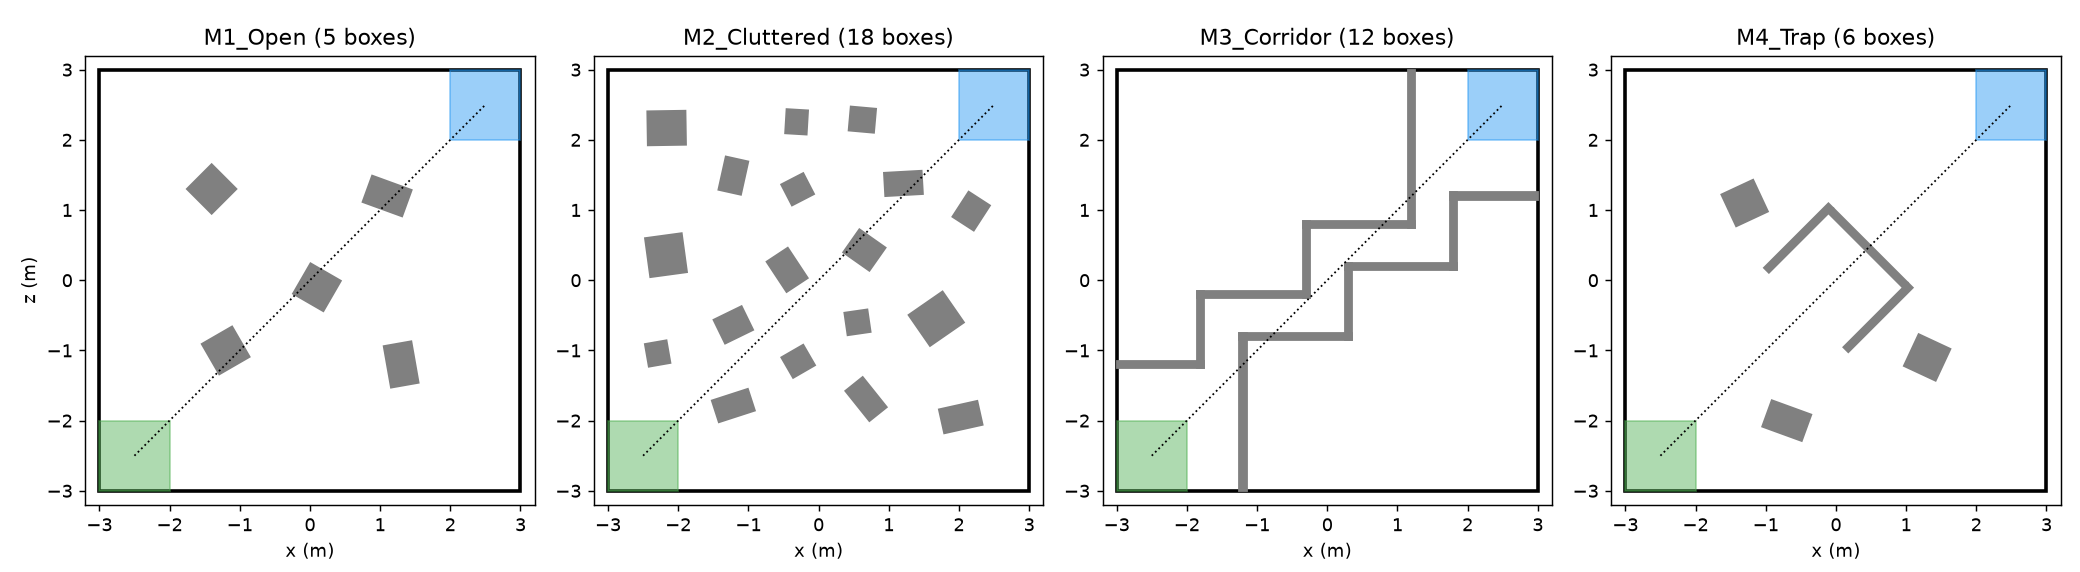
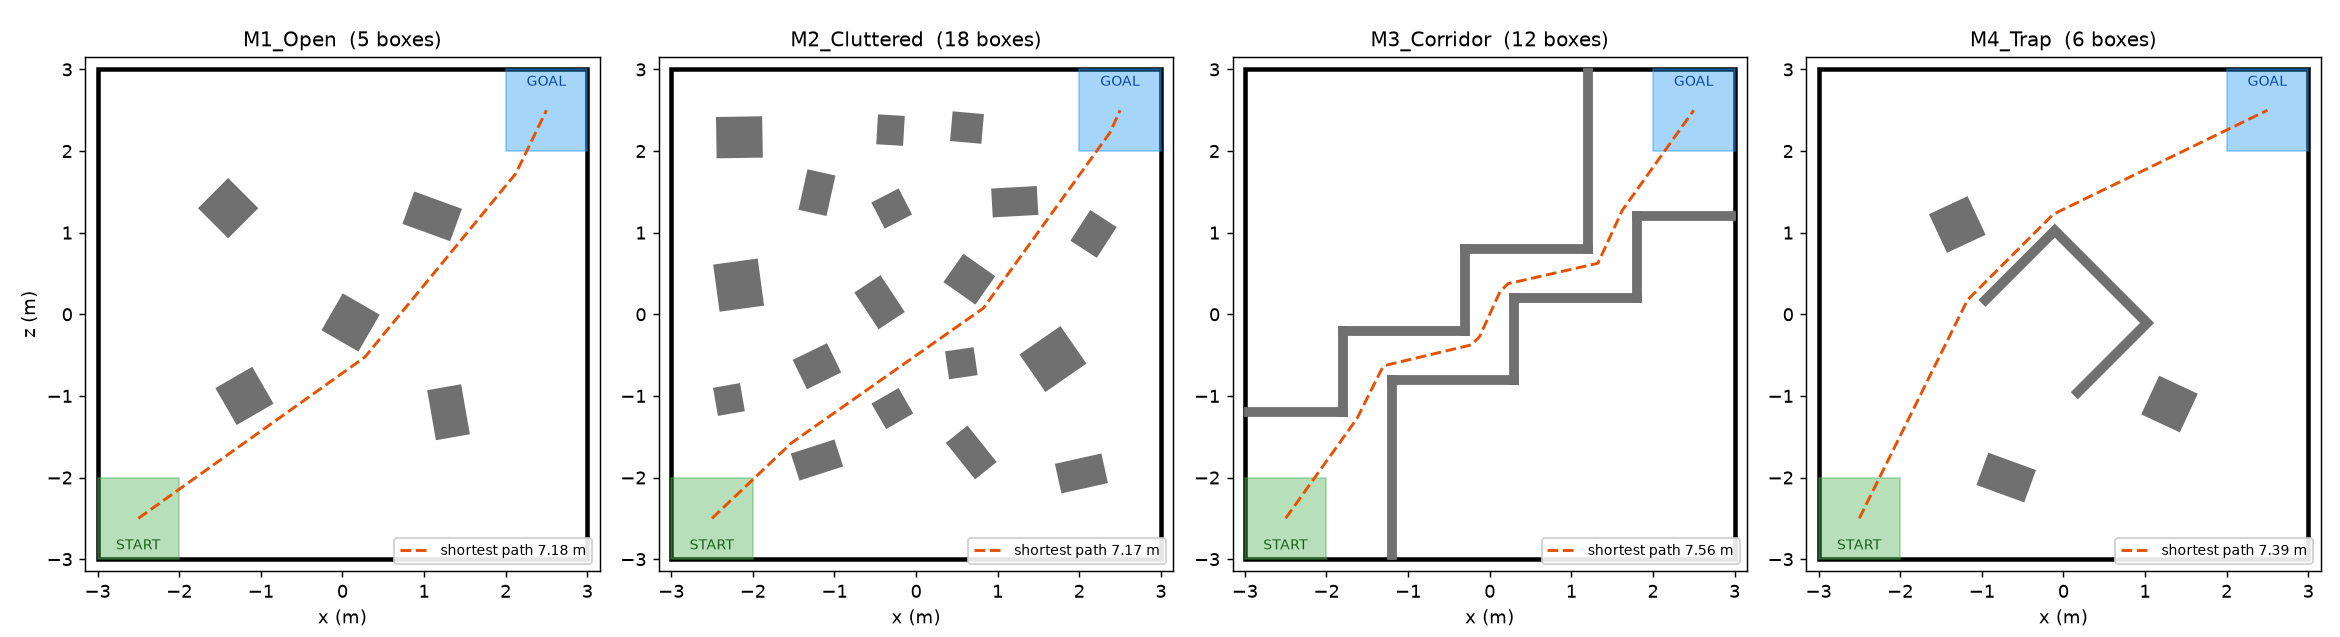
Phase 3 step 2: TrialSpawner, 30 start poses, Figure 2 map pictures
- TrialSpawner: places the rover from a trial seed: random point inside the start
  zone (whole rover inside: +-0.375 m about the zone centre) and a random heading
  within +-45 deg of the goal direction; same seed = same pose
- Trial seed goes through an integer hash before System.Random: plain consecutive
  seeds gave a perfect lattice (constant step per seed), not random poses
- SimConfig: startHeadingRangeDeg, firstTrialSeed (1), trialCount (30)
- Rover > Export Start Poses writes results/start_poses.csv (seeds 1-30)
- docs/figures/maps/: 1920x1920 top-down Unity renders of the 4 test maps (Figure 2)
- make_maps.py: shortest-path overview only; MapLoader keeps the zone-moving code
- CLAUDE.md fixed parameters: trial seeds, position range, heading range
- PROGRESS.md: Phase 3 ticked, map and start-pose decisions for the Methods
- Arena scene: TrialSpawner added (diff also holds recomputed HUD layout sizes)

diff --git a/analysis/make_maps.py b/analysis/make_maps.py
@@ -104,7 +104,8 @@ def path_exists(boxes, clearance=ROVER_R, cell=0.05):
 def shortest_path(boxes, clearance=0.10, cell=0.05):
     """Shortest collision-free path from the start-zone centre to the goal-zone centre.
     The rover is a point that must stay at least `clearance` away from every box and every arena wall. Dijkstra on a grid
-    (16 neighbours), then straightened by line-of-sight shortcuts. Returns (grid length, straightened length) in metres."""
+    (16 neighbours), then straightened by line-of-sight shortcuts. Returns (grid length, straightened length in metres,
+    the straightened path as a list of (x, z) points)."""
     import heapq
     import numpy as np
     n = round(2 * HALF / cell)
@@ -172,7 +173,7 @@ def shortest_path(boxes, clearance=0.10, cell=0.05):
             j -= 1
         out.append(pts[j])
         i = j
-    return grid_len, sum(math.hypot(b[0] - a[0], b[1] - a[1]) for a, b in zip(out, out[1:]))
+    return grid_len, sum(math.hypot(b[0] - a[0], b[1] - a[1]) for a, b in zip(out, out[1:])), out
 
 
 def stats(boxes):
@@ -405,30 +406,40 @@ def write_asset(name, boxes):
     (MAP_DIR / (name + ".asset")).write_text("\n".join(lines) + "\n", encoding="utf-8", newline="\n")
 
 
-def draw(maps):
+def draw_map(ax, name, boxes, path, length):
+    from matplotlib.patches import Polygon, Rectangle
+    ax.add_patch(Rectangle((-HALF, -HALF), 2 * HALF, 2 * HALF, fill=False, lw=2.5, color="black"))
+    ax.add_patch(Rectangle((START[0] - .5, START[1] - .5), 1, 1, color="#4caf50", alpha=.40))
+    ax.add_patch(Rectangle((GOAL[0] - .5, GOAL[1] - .5), 1, 1, color="#2196f3", alpha=.40))
+    for b in boxes:
+        ax.add_patch(Polygon(corners(b), color="#707070"))
+    ax.plot([p[0] for p in path], [p[1] for p in path], ls="--", lw=1.6, color="#e65100", label="shortest path %.2f m" % length)
+    ax.text(START[0], START[1] - .38, "START", ha="center", fontsize=8, color="#1b5e20")
+    ax.text(GOAL[0], GOAL[1] + .30, "GOAL", ha="center", fontsize=8, color="#0d47a1")
+    ax.set_xlim(-HALF - .15, HALF + .15)
+    ax.set_ylim(-HALF - .15, HALF + .15)
+    ax.set_aspect("equal")
+    ax.set_title("%s  (%d boxes)" % (name, len(boxes)), fontsize=11)
+    ax.set_xlabel("x (m)")
+    ax.legend(loc="lower right", fontsize=8, framealpha=.9)
+
+
+def draw(maps, paths, lengths):
+    """Quick schematic of the four maps with their shortest paths (docs/figures/maps_overview.png). The paper's Figure 2
+    pictures are rendered by Unity instead (docs/figures/maps/)."""
     import matplotlib
     matplotlib.use("Agg")
     import matplotlib.pyplot as plt
-    from matplotlib.patches import Polygon, Rectangle
-    fig, axes = plt.subplots(1, 4, figsize=(16, 4.4))
+    out_dir = ROOT / "docs" / "figures"
+    out_dir.mkdir(parents=True, exist_ok=True)
+    fig, axes = plt.subplots(1, 4, figsize=(18, 4.9))
     for ax, (name, boxes) in zip(axes, maps.items()):
-        ax.add_patch(Rectangle((-HALF, -HALF), 2 * HALF, 2 * HALF, fill=False, lw=2, color="black"))
-        ax.add_patch(Rectangle((START[0] - .5, START[1] - .5), 1, 1, color="#4caf50", alpha=.45))
-        ax.add_patch(Rectangle((GOAL[0] - .5, GOAL[1] - .5), 1, 1, color="#2196f3", alpha=.45))
-        for b in boxes:
-            ax.add_patch(Polygon(corners(b), color="#808080"))
-        ax.plot([START[0], GOAL[0]], [START[1], GOAL[1]], ls=":", lw=1, color="black")
-        ax.set_xlim(-HALF - .2, HALF + .2)
-        ax.set_ylim(-HALF - .2, HALF + .2)
-        ax.set_aspect("equal")
-        ax.set_title("%s (%d boxes)" % (name, len(boxes)))
-        ax.set_xlabel("x (m)")
+        draw_map(ax, name, boxes, paths[name], lengths[name])
     axes[0].set_ylabel("z (m)")
     fig.tight_layout()
-    out = ROOT / "docs" / "figures" / "maps_overview.png"
-    out.parent.mkdir(parents=True, exist_ok=True)
-    fig.savefig(out, dpi=130)
-    print("preview:", out)
+    fig.savefig(out_dir / "maps_overview.png", dpi=130)
+    plt.close(fig)
+    print("preview written to", out_dir / "maps_overview.png")
 
 
 MAX_PATH = 8.0        # m: a controller at half speed (0.15 m/s) must still be able to finish within 60 s
@@ -440,18 +451,18 @@ def path_table(maps):
     print()
     print("Shortest collision-free path, start-zone centre -> goal-zone centre (0.10 m clearance)")
     print("%-14s %9s %9s %7s %10s %10s" % ("map", "grid (m)", "short (m)", "x line", "t @0.30", "t @0.15"))
-    result = {}
+    result, paths = {}, {}
     for name, boxes in maps.items():
-        grid, short = shortest_path(boxes)
+        grid, short, paths[name] = shortest_path(boxes)
         result[name] = short
         print("%-14s %9.2f %9.2f %7.2f %8.0f s %8.0f s" % (name, grid, short, short / straight, short / 0.30, short / 0.15))
     print("straight line start-goal = %.2f m;  limit = %.1f m" % (straight, MAX_PATH))
-    return result
+    return result, paths
 
 
 if __name__ == "__main__":
     all_maps = verify_all()
-    lengths = path_table(all_maps)
+    lengths, paths = path_table(all_maps)
     too_long = [k for k, v in lengths.items() if v > MAX_PATH]
     if too_long:
         sys.exit("path longer than %.1f m: %s" % (MAX_PATH, ", ".join(too_long)))
@@ -459,4 +470,4 @@ if __name__ == "__main__":
     for map_name, map_boxes in all_maps.items():
         write_asset(map_name, map_boxes)
         print("wrote", MAP_DIR / (map_name + ".asset"))
-    draw(all_maps)
+    draw(all_maps, paths, lengths)

diff --git a/Assets/Scripts/Experiment/TrialSpawner.cs b/Assets/Scripts/Experiment/TrialSpawner.cs
@@ -1,0 +1,87 @@
+// TrialSpawner: puts the rover on its start pose for one trial. Given a trial seed it picks a random point inside the start
+// zone (the whole rover stays inside the zone) and a random heading between -45 and +45 degrees from the direction of the
+// goal, using a System.Random seeded from the trial seed (never UnityEngine.Random). The same seed always gives the same pose, whatever the
+// controller, noise level or map. Sign convention: positive goal angle = the goal is to the LEFT of the rover's heading.
+using UnityEngine;
+
+public struct StartPose
+{
+    public Vector2 position;       // rover centre on the floor (x, z), metres
+    public float yawDeg;           // Unity rotation about the vertical axis (0 = facing +z / north, positive turns RIGHT)
+    public float goalAngleDeg;     // angle to the goal as the rover sees it: positive = goal to the LEFT
+    /// <summary>Heading in the map frame (x east, z north): degrees counter-clockwise from east, 0..360. = 90 - yaw.</summary>
+    public float HeadingDeg => Mathf.Repeat(90f - yawDeg, 360f);
+}
+
+public class TrialSpawner : MonoBehaviour
+{
+    public SimConfig config;
+    public RoverDrive rover;
+    public Transform startZone;      // found by the name "StartZone" if left empty (MapLoader moves it to the map's start)
+    public Transform goalZone;       // found by the name "GoalZone" if left empty
+
+    /// <summary>Place the rover for this trial seed, stop it and restart its run records. Returns the pose used.</summary>
+    public StartPose Spawn(int trialSeed)
+    {
+        Resolve(ref startZone, "StartZone");
+        Resolve(ref goalZone, "GoalZone");
+        var pose = ComputePose(trialSeed,
+            new Vector2(startZone.position.x, startZone.position.z), new Vector2(goalZone.position.x, goalZone.position.z), config);
+
+        var rb = rover.GetComponent<Rigidbody>();
+        var position = new Vector3(pose.position.x, rover.transform.position.y, pose.position.y);   // keep the rover's height
+        var rotation = Quaternion.Euler(0f, pose.yawDeg, 0f);
+        rb.linearVelocity = Vector3.zero;
+        rb.angularVelocity = Vector3.zero;
+        rb.position = position;
+        rb.rotation = rotation;
+        rover.transform.SetPositionAndRotation(position, rotation);
+        Physics.SyncTransforms();
+
+        var status = rover.GetComponent<RoverStatus>();
+        if (status != null) status.ResetStatus();
+        return pose;
+    }
+
+    /// <summary>The pose for a trial seed (no objects are moved). Same seed = same pose.</summary>
+    public static StartPose ComputePose(int trialSeed, Vector2 startCentre, Vector2 goalCentre, SimConfig config)
+    {
+        var rng = new System.Random(MixSeed(trialSeed));
+        double ux = rng.NextDouble(), uz = rng.NextDouble(), ua = rng.NextDouble();   // always three draws, in this order
+
+        // Any point of the zone where the whole rover (even turned diagonally) still fits inside it.
+        float halfDiagonal = 0.5f * Mathf.Sqrt(config.roverLength * config.roverLength + config.roverWidth * config.roverWidth);
+        float range = config.zoneSize * 0.5f - halfDiagonal;
+        var position = new Vector2(startCentre.x + (float)(2 * ux - 1) * range, startCentre.y + (float)(2 * uz - 1) * range);
+        float goalAngle = (float)(2 * ua - 1) * config.startHeadingRangeDeg;
+
+        // yaw that faces the goal, then turned RIGHT by the goal angle (turning right makes the goal appear on the left)
+        Vector2 toGoal = goalCentre - position;
+        float yawToGoal = Mathf.Atan2(toGoal.x, toGoal.y) * Mathf.Rad2Deg;
+        float yaw = Mathf.Repeat(yawToGoal + goalAngle, 360f);
+
+        return new StartPose { position = position, yawDeg = yaw, goalAngleDeg = goalAngle };
+    }
+
+    // System.Random seeded with 1, 2, 3, ... gives a perfectly regular lattice (each draw grows by a constant step from one
+    // seed to the next, so the poses would be evenly spaced, not random). Passing the trial seed through this nonlinear
+    // integer hash (murmur3 finalizer) first removes that pattern. It is a fixed function: same trial seed = same pose.
+    static int MixSeed(int trialSeed)
+    {
+        unchecked
+        {
+            uint h = (uint)trialSeed;
+            h ^= h >> 16; h *= 0x85ebca6bu;
+            h ^= h >> 13; h *= 0xc2b2ae35u;
+            h ^= h >> 16;
+            return (int)h;
+        }
+    }
+
+    static void Resolve(ref Transform zone, string zoneName)
+    {
+        if (zone != null) return;
+        var found = GameObject.Find(zoneName);
+        if (found != null) zone = found.transform;
+    }
+}

diff --git a/Assets/Scripts/Experiment/Editor/MapWindow.cs b/Assets/Scripts/Experiment/Editor/MapWindow.cs
@@ -61,6 +61,30 @@ public class MapWindow : EditorWindow
         Debug.Log("Practice map from seed " + practiceSeed + " loaded.");
     }
 
+    // Writes results/start_poses.csv: the start pose of every trial seed (firstTrialSeed .. firstTrialSeed+trialCount-1).
+    // heading_deg: rover heading in the map frame, counter-clockwise from east (+x), 0..360 (Unity yaw = 90 - heading).
+    // goal_angle_deg: angle to the goal as the rover sees it, positive = goal to the LEFT.
+    [MenuItem("Rover/Export Start Poses (CSV)")]
+    static void ExportStartPoses()
+    {
+        var config = AssetDatabase.LoadAssetAtPath<SimConfig>("Assets/SimConfig.asset");
+        var map = AssetDatabase.LoadAssetAtPath<MapDefinition>("Assets/Maps/M1_Open.asset");   // all maps share the zone centres
+        if (config == null || map == null) { Debug.LogError("Export Start Poses: SimConfig or map not found"); return; }
+
+        var inv = System.Globalization.CultureInfo.InvariantCulture;
+        var csv = new System.Text.StringBuilder("seed,x,z,heading_deg,goal_angle_deg\n");
+        for (int seed = config.firstTrialSeed; seed < config.firstTrialSeed + config.trialCount; seed++)
+        {
+            StartPose p = TrialSpawner.ComputePose(seed, map.startZoneCentre, map.goalZoneCentre, config);
+            csv.Append(seed).Append(',').Append(p.position.x.ToString("0.0000", inv)).Append(',').Append(p.position.y.ToString("0.0000", inv))
+               .Append(',').Append(p.HeadingDeg.ToString("0.00", inv)).Append(',').Append(p.goalAngleDeg.ToString("0.00", inv)).Append('\n');
+        }
+        string full = System.IO.Path.GetFullPath(System.IO.Path.Combine(Application.dataPath, "..", "results", "start_poses.csv"));
+        System.IO.Directory.CreateDirectory(System.IO.Path.GetDirectoryName(full));
+        System.IO.File.WriteAllText(full, csv.ToString());
+        Debug.Log("Saved " + full);
+    }
+
     static void MarkDirty(MapLoader loader)
     {
         if (!Application.isPlaying) EditorSceneManager.MarkSceneDirty(loader.gameObject.scene);

diff --git a/Assets/Scripts/Experiment/MapLoader.cs b/Assets/Scripts/Experiment/MapLoader.cs
@@ -77,13 +77,16 @@ public class MapLoader : MonoBehaviour
         }
     }
 
+    static void Resolve(ref Transform zone, string zoneName)
+    {
+        if (zone != null) return;
+        var found = GameObject.Find(zoneName);
+        if (found != null) zone = found.transform;
+    }
+
     void PlaceZone(ref Transform zone, string zoneName, Vector2 centre)
     {
-        if (zone == null)
-        {
-            var found = GameObject.Find(zoneName);
-            if (found != null) zone = found.transform;
-        }
+        Resolve(ref zone, zoneName);
         if (zone == null) { Debug.LogWarning("MapLoader: no object named " + zoneName + " found", this); return; }
         Vector3 p = zone.position;
         zone.position = new Vector3(centre.x, p.y, centre.y);

diff --git a/Assets/Scripts/Experiment/SimConfig.cs b/Assets/Scripts/Experiment/SimConfig.cs
@@ -41,6 +41,12 @@ public class SimConfig : ScriptableObject
     public float controllerInterval = 0.05f; // controllers decide at 20 Hz
     public float physicsTimestep = 0.02f;    // Unity fixed timestep
 
+    [Header("Trial start pose")]
+    // TrialSpawner: random point inside the start zone, random goal angle within +-this (positive = goal to the LEFT).
+    public float startHeadingRangeDeg = 45f;
+    public int firstTrialSeed = 1;               // the study uses trial seeds 1..30
+    public int trialCount = 30;
+
     [Header("Visuals")]
     // true = show the detailed Perseverance model (demos, screenshots); false = plain box rover.
     // Visual only: the invisible BoxCollider is always the real body. The ExperimentRunner must set this to FALSE.

diff --git a/docs/PROGRESS.md b/docs/PROGRESS.md
@@ -5,7 +5,7 @@ Checklist of project phases. Update at the end of each phase.
 - [x] Phase 0 - Setup check and project brief (Unity project, CLAUDE.md, git, folders, SimConfig, Python 3.12 venv)
 - [x] Phase 1 - Arena and rover
 - [x] Phase 2 - Ultrasonic sensor model and accuracy test (UltrasonicSensor, SensorRig, SensorTest scene, results/sensor_validation.csv)
-- [ ] Phase 3 - Four test maps and repeatable starts
+- [x] Phase 3 - Four test maps and repeatable starts (MapDefinition, MapLoader, 4 maps, PracticeMapGenerator, TrialSpawner, results/start_poses.csv, Figure 2 pictures)
 - [ ] Phase 4 - Controller plug and rule-based baseline
 - [ ] Phase 5 - Bug2 controller
 - [ ] Phase 6 - LLM-written controllers (30)
@@ -26,8 +26,42 @@ Checklist of project phases. Update at the end of each phase.
 - Validation (seed 12345, 100 readings per point): mean matches the true distance and sd matches noise x distance
   (sd/expected averages 0.995); 2.00% dropouts on real echoes.
 
+## Map decisions (for the paper's Methods)
+
+- Maps are `MapDefinition` assets in `Assets/Maps`, generated and checked by `analysis/make_maps.py` (run it again to
+  rebuild them and the pictures in `docs/figures/`). Coordinates: x = east, z = north, arena centre (0,0); box rotation
+  positive = counter-clockwise from above (= LEFT). Start zone centre (-2.5,-2.5), goal zone centre (2.5,2.5) on all maps.
+- M1_Open: 5 boxes (0.4-0.6 m), every gap at least 0.98 m. M2_Cluttered: 18 boxes (0.3-0.6 m), every gap (box-box,
+  box-wall, box-zone) at least 0.52 m, random placement with a fixed seed. M3_Corridor: 12 thin walls (0.1 m) forming a
+  right-angle staircase corridor 0.5 m wide and 5.5 m long between two sealed 1.75 m x 1.75 m corner rooms (the corridor is
+  the only way through). M4_Trap: U-shaped dead end, 1.5 m wide x 1.2 m deep CLEAR inside (walls 0.1 m), centred on the
+  start-goal line with the opening towards the start, plus 3 boxes.
+- Shortest collision-free path start centre -> goal centre (0.10 m clearance, grid + straightening): M1 7.18 m,
+  M2 7.17 m, M3 7.56 m, M4 7.39 m (straight line 7.07 m). All under 8 m, so a controller at half speed (0.15 m/s) can
+  still finish within 60 s (about 50 s).
+- Repeatable starts (`TrialSpawner`): trial seeds 1-30. The start pose depends ONLY on the trial seed, never on the
+  controller, noise level or map. Position: uniform in x and z within +-0.375 m of the start-zone centre, i.e. x, z in
+  [-2.875, -2.125] m (zone half-width 0.5 m minus the rover's half-diagonal 0.125 m, so the whole rover is inside the zone).
+  Heading: the rover faces the goal, turned by a uniform goal angle in [-45, +45] deg (positive = goal to the left;
+  SimConfig startHeadingRangeDeg). Random numbers: `System.Random` seeded with an integer HASH of the trial seed. Plain
+  `System.Random(seed)` with seeds 1, 2, 3, ... was tested and gives a perfect lattice (every draw grows by a constant step
+  per seed, so poses are evenly spaced, not random; chi-square 24 against about 124 for random data); with the hash the
+  steps are irregular and chi-square is 129. Checked on 1000 seeds: repeatable, rover always fully inside the zone, goal angle
+  sign correct; on 4 maps x 200 seeds the rover never touched a wall or obstacle at the start.
+  `TrialSpawner.Spawn(seed)` places and stops the rover and restarts its records.
+- `results/start_poses.csv` (menu Rover > Export Start Poses): columns seed, x, z, heading_deg, goal_angle_deg for seeds
+  1-30. heading_deg = rover heading in the map frame, counter-clockwise from east (+x), 0-360 (Unity yaw = 90 - heading);
+  goal_angle_deg = angle to the goal as the rover sees it, positive = goal to the left.
+- Figure 2 pictures: `docs/figures/maps/M1_Open.png` ... `M4_Trap.png`, 1920 x 1920 px, rendered by Unity from the arena's
+  top-down orthographic camera (north up, x to the right), rover and HUD hidden, white background outside the arena.
+  Orange = arena walls, grey = obstacles, green = start zone, blue = goal zone.
+- The practice-map generator (`PracticeMapGenerator`, 5-15 boxes, sometimes a U-shape, free path guaranteed) is only for
+  showing chatbots an example in Phase 6; it is not one of the test maps.
+
 ## Notes for later phases
 
+- Phase 7: for each trial seed 1-30 call `TrialSpawner.Spawn(seed)` (after `MapLoader.Load(map)`) so every controller starts
+  from the same pose.
 - Phase 7: the ExperimentRunner MUST switch all visual-only extras OFF for all 15,360 runs: the Perseverance model,
   the follow/chase cameras (C key), the path trail and the HUD. One call does it: make a runtime copy
   (`var cfg = Object.Instantiate(config); cfg.SetExperimentMode();`), give that copy to every rover

diff --git a/CLAUDE.md b/CLAUDE.md
@@ -18,6 +18,13 @@ algorithm on the same simulated rover. Results must be real, reproducible and fa
 - Controllers decide every 0.05 s (20 Hz). Physics fixed timestep 0.02 s.
 - A run ends on: goal reached (rover centre inside goal zone), any collision, or 60 s.
 - All randomness from a seeded System.Random, never UnityEngine.Random.
+- Trial seeds 1 to 30 (SimConfig firstTrialSeed, trialCount). The start pose depends only on the trial
+  seed (same seed = same pose for every controller, noise level and map), made by TrialSpawner:
+  position uniform in x and z within +-0.375 m of the start-zone centre (x, z in [-2.875, -2.125] m:
+  zone half-width 0.5 m minus rover half-diagonal 0.125 m, so the whole rover is inside the zone);
+  heading = facing the goal, turned by a uniform goal angle within +-45 deg (positive = goal to the LEFT).
+  The trial seed goes through an integer hash before it seeds System.Random (plain consecutive seeds
+  give a regular lattice, not random poses). The 30 poses are in results/start_poses.csv.
 - Every controller gets the same inputs: front, left, right readings, goal distance,
   goal angle. (Bug2 additionally uses rover position - must be stated in the paper.)
 
